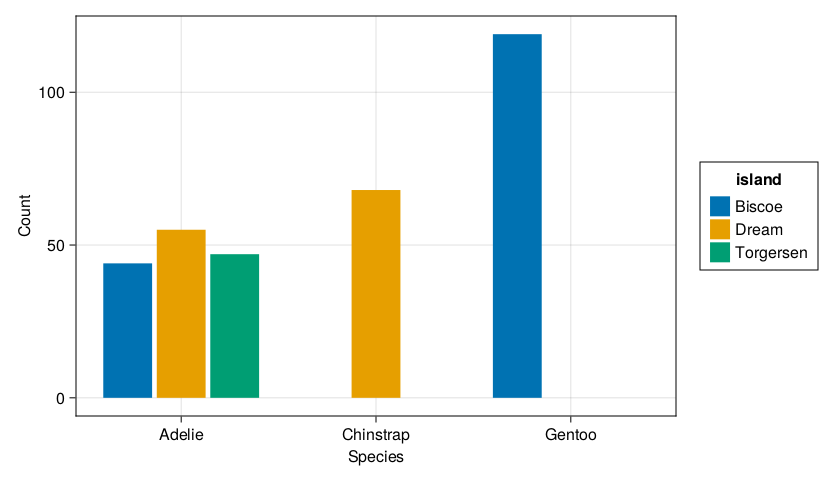
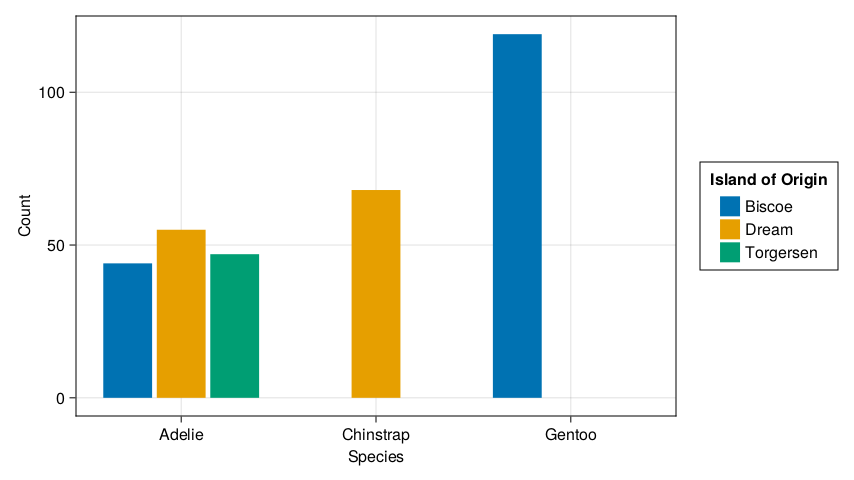
adds support for labelling optional aesthetics
@labs now accepts "title", "subtitle", "x", "y", and any specified aes

diff --git a/README.md b/README.md
@@ -66,9 +66,9 @@ penguins = dropmissing(DataFrame(PalmerPenguins.load()))
 
 
 ```julia
-@ggplot(data = penguins) + 
-    @geom_bar(aes(x = species, color = island), position = "dodge") +
-    @labs(x = "Species", y = "Count")
+@ggplot(data = penguins) +
+           @geom_bar(aes(x = species, color = island), position = "dodge") +
+           @labs(x = "Species", y = "Count", color = "Island of Origin")
 ```
 ![](assets/example_col_color.png)
 
